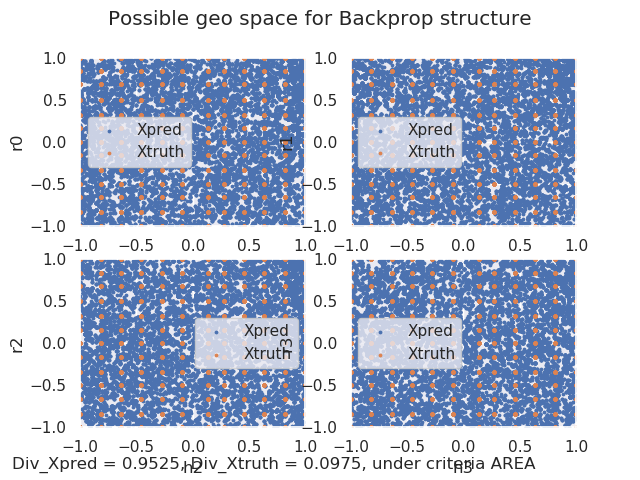
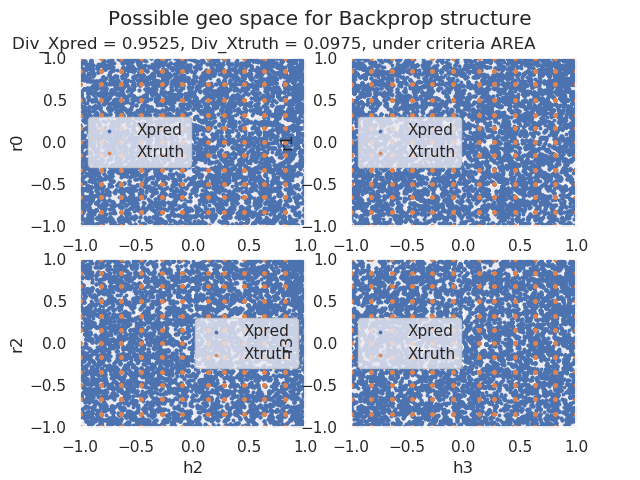
bashrc updates and minor bug fixs

diff --git a/Backprop/test_plot.py b/Backprop/test_plot.py
@@ -7,7 +7,7 @@ import evaluate
 
 
 plotsAnalysis.PlotPossibleGeoSpace("Possible geo space for Backprop structure","data/", compare_original = True,
-                                        calculate_diversity = 'MST')
+                                        calculate_diversity = 'AREA')
 #plotsAnalysis.SpectrumComparisonNGeometryComparison(3,2,(13,8),'20190903_220309');
 #TK = time_recorder.time_keeper()
 #TK.record(5)

diff --git a/VAE/test_plot.py b/VAE/test_plot.py
@@ -7,7 +7,7 @@ import evaluate
 
 
 plotsAnalysis.PlotPossibleGeoSpace("Possible geo space for VAE structure","data/", compare_original = True,
-                                        calculate_diversity = 'MST')
+                                        calculate_diversity = 'AREA')
 #plotsAnalysis.SpectrumComparisonNGeometryComparison(3,2,(13,8),'20190903_220309');
 #TK = time_recorder.time_keeper()
 #TK.record(5)
